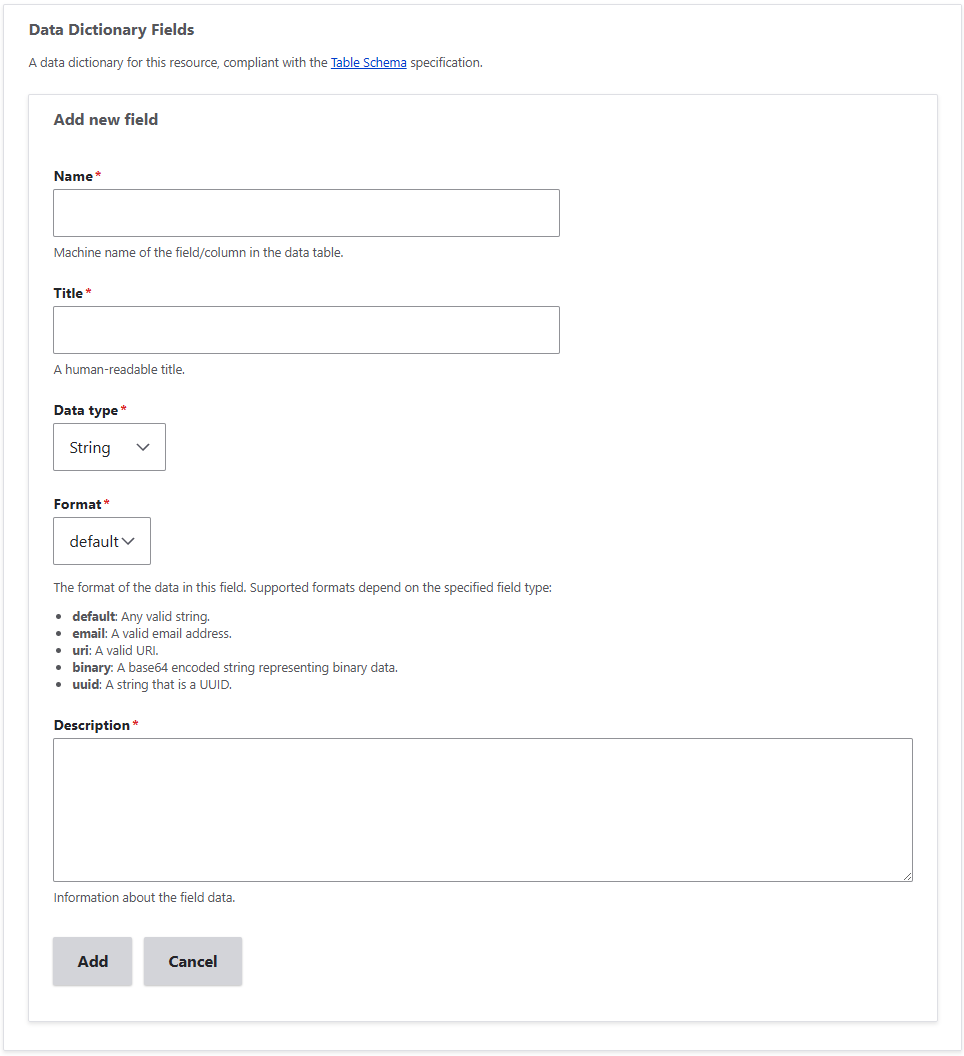
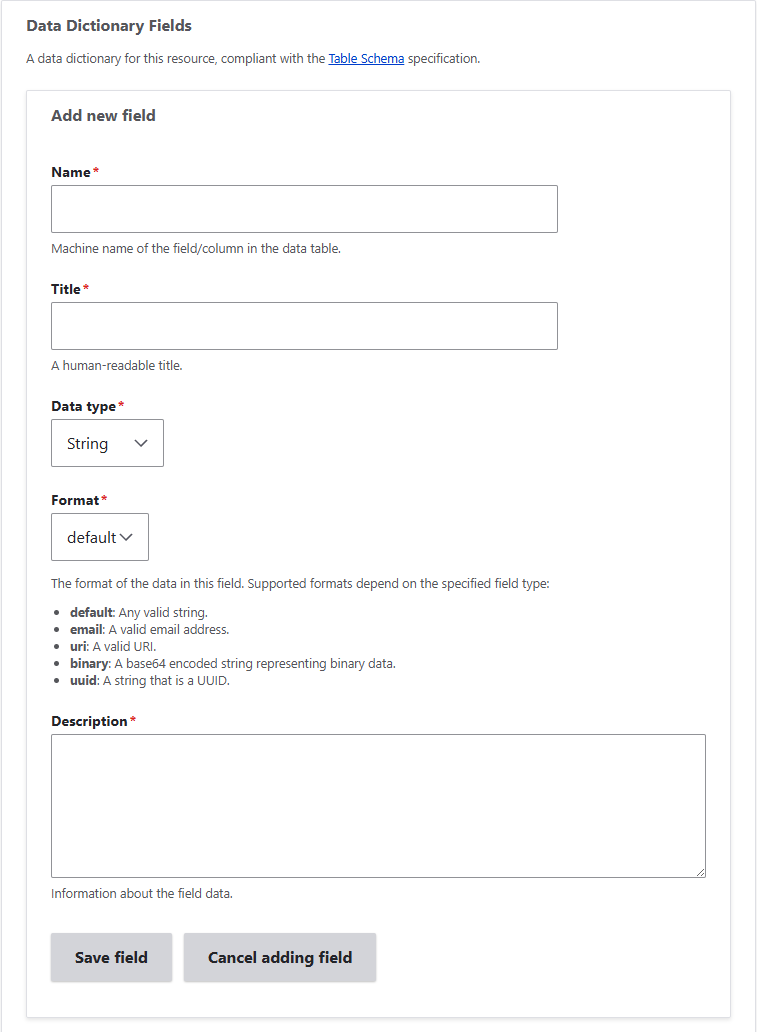
Update a missed button value/label change, update associated documentation

diff --git a/modules/data_dictionary_widget/src/Indexes/IndexFieldButtons.php b/modules/data_dictionary_widget/src/Indexes/IndexFieldButtons.php
@@ -282,7 +282,7 @@ class IndexFieldButtons {
     $op = $location == 'edit' && $indexKey ? 'abort_' . $indexKey : 'cancel_index';
     $cancel_index_button = [
       '#type' => 'submit',
-      '#value' => t('Cancel index edit'),
+      '#value' => t('Cancel adding index'),
       '#name' => 'cancel_index',
       '#op' => $op,
       '#submit' => [
@@ -301,6 +301,8 @@ class IndexFieldButtons {
 
     if ($location == 'edit') {
       $cancel_index_button['#name'] = 'cancel_update_' . $indexKey;
+      $cancel_index_button['#value'] = t('Cancel index edit');
+      
     }
     return $cancel_index_button;
   }

diff --git a/docs/source/user-guide/guide_indexes.rst b/docs/source/user-guide/guide_indexes.rst
@@ -94,33 +94,33 @@ Indexes
 
 Index Fields
 ^^^^^^^^^^^^
-1. To add an index field, click "Add field" under the ‘Fields’ section within the respective ‘Index’ section.
+1. To add an index field, click "Add field to index" under the ‘Fields’ section within the respective ‘Index’ section.
 2. An editable "Add new field" form box will appear. Complete the required form fields here:
 
   .. image:: images/indexes/add-index-fields-editable-form-box.png
-    :alt: A portion of the data dictionary creation admin page with a focus on the editable form that appears after clicking the "Add new field or add field" button.
+    :alt: A portion of the data dictionary creation admin page with a focus on the editable form that appears after clicking the "Add field to index" button.
 
  a. Name: Enter a name, this must be a key from the dictionary fields object as created previously (see step 4 in the ‘Prerequisites’ section above for reference).
  b. Length: how many characters long this field can be.
 
-3. Click "Add" to save the field temporarily. Remember that the Data Dictionary and it's respective fields and indexes are not completely saved until the form is submitted by clicking "Save".
-4. Alternatively you can click "Cancel" to stop creating the index field, at which point all the information you entered will be removed and the editable "Add new field" form box will close.
+3. Click "Save field to index" to save the field temporarily. Remember that the Data Dictionary and it's respective fields and indexes are not completely saved until the form is submitted by clicking "Save".
+4. Alternatively you can click "Cancel adding field to index" to stop creating the index field, at which point all the information you entered will be removed and the editable "Add new field" form box will close.
 5. Note that after saving an index field, an informational table will appear listing the index fields you have created thus far and their names and length.
 
   .. image:: images/indexes/add-index-fields-informational-table.png
     :alt: A portion of the data dictionary creation admin page with a focus on informational table that appears after saving an index field.
 
  a. You also have the ability to edit or modify the fields you've created so far by clicking the gear icon on the right-hand side of this table.
- b. Clicking the gear icon will open an editable form that will show the previously entered information for the respective index field. You can then modify this information and either: "Save Index Field" (retain the modifications), "Cancel Index Field" (close the editable form box without retaining any modifications) or "Delete Index Field" (remove the respective index field entirely).
+ b. Clicking the gear icon will open an editable form that will show the previously entered information for the respective index field. You can then modify this information and either: "Save index field edit" (retain the modifications), "Cancel index field edit" (close the editable form box without retaining any modifications) or "Remove field from index" (remove the respective index field entirely).
 
     .. image:: images/indexes/edit-index-fields.png
       :alt: A portion of the data dictionary creation admin page with a focus on editable form that appears after you click the gear icon to edit a specific index field.
 
-6. You can enter additional index fields by clicking "Add field" (in this index section) and repeating steps 2-3 in this Index Fields section again.
-7. After defining the index fields, click "Submit Index" to save the index temporarily. Remember that the Data Dictionary and it's respective fields and indexes are not completely saved until the form is submitted by clicking "Save".
+6. You can enter additional index fields by clicking "Add field to index" (in this index section) and repeating steps 2-3 in this Index Fields section again.
+7. After defining the index fields, click "Save index" to save the index temporarily. Remember that the Data Dictionary and it's respective fields and indexes are not completely saved until the form is submitted by clicking "Save".
    
   .. image:: images/indexes/edit-index-box.png
-    :alt: A portion of the data dictionary creation admin page with a focus on the indexes box, specifically meant to reference the "Submit Index" button.
+    :alt: A portion of the data dictionary creation admin page with a focus on the indexes box, specifically meant to reference the "Save index" button.
 
 8. Note that after submitting, an informational table will appear listing the indexes you have created thus far and their names, types, and fields (field name and field length).
 
@@ -128,7 +128,7 @@ Index Fields
     :alt: A portion of the data dictionary creation admin page with a focus on informational table that appears after saving an index.
 
  a. You also have the ability to edit or modify the indexes you've created so far by clicking the gear icon on the right-hand side of this table.
- b. Clicking the gear icon will open an editable form that will show the previously entered information for the respective index. You can then modify this information and either: "Save" (retain the modifications), "Cancel Index" (close the editable form box without retaining any modifications) or "Delete Index" (remove the respective index entirely).
+ b. Clicking the gear icon will open an editable form that will show the previously entered information for the respective index. You can then modify this information and either: "Save index edit" (retain the modifications), "Cancel index edit" (close the editable form box without retaining any modifications) or "Remove index" (remove the respective index entirely).
 
     .. image:: images/indexes/edit-index.png
       :alt: A portion of the data dictionary creation admin page with a focus on the edit index box.

diff --git a/docs/source/user-guide/guide_data_dictionaries.rst b/docs/source/user-guide/guide_data_dictionaries.rst
@@ -205,15 +205,15 @@ Creating a data dictionary via the UI
   .. image:: images/fields/add-data-field-editable-form-box.png
     :alt: A portion of the data dictionary creation admin page with a focus on the "Add new field" section.
 
-6. Click "Add" to save the field temporarily. Remember that the Data Dictionary and it's respective fields are not completely saved until the form is submitted in it's entirety by clicking "Save".
-7. Alternatively you can click "Cancel" to stop creating the Data Dictionary field, at which point all the information you entered will be removed and the "Add new Field" box will close.
+6. Click "Save field" to save the field temporarily. Remember that the Data Dictionary and it's respective fields are not completely saved until the form is submitted in it's entirety by clicking "Save".
+7. Alternatively you can click "Cancel adding field" to stop creating the Data Dictionary field, at which point all the information you entered will be removed and the "Add new Field" box will close.
 8. Note that after saving, an informational table will appear listing the data dictionary fields you have created thus far and their names, titles, and details (data types, formats and descriptions).
 
   .. image:: images/fields/edit-data-field-informational-table.png
     :alt: A portion of the data dictionary creation admin page with a focus on the informational table that appears.
 
 9. You also have the ability to edit or modify the data dictionary fields you've created so far by clicking the gear icon on the right-hand side of this table.
-10.  Clicking the gear icon will open an editable form that will show the previously entered information for the respective data dictionary field. You can then modify this information and either: "Save" (retain the modifications), "Cancel" (close the editable form box without retaining any modifications) or "Delete" (remove the respective Data Dictionary field entirely).
+10.  Clicking the gear icon will open an editable form that will show the previously entered information for the respective data dictionary field. You can then modify this information and either: "Save field edit" (retain the modifications), "Cancel field edit" (close the editable form box without retaining any modifications) or "Remove field" (remove the respective Data Dictionary field entirely).
 
   .. image:: images/fields/edit-data-field.png
     :alt: A portion of the data dictionary creation admin page with a focus on the editable form that appears in order to modify the data dictionary field.
